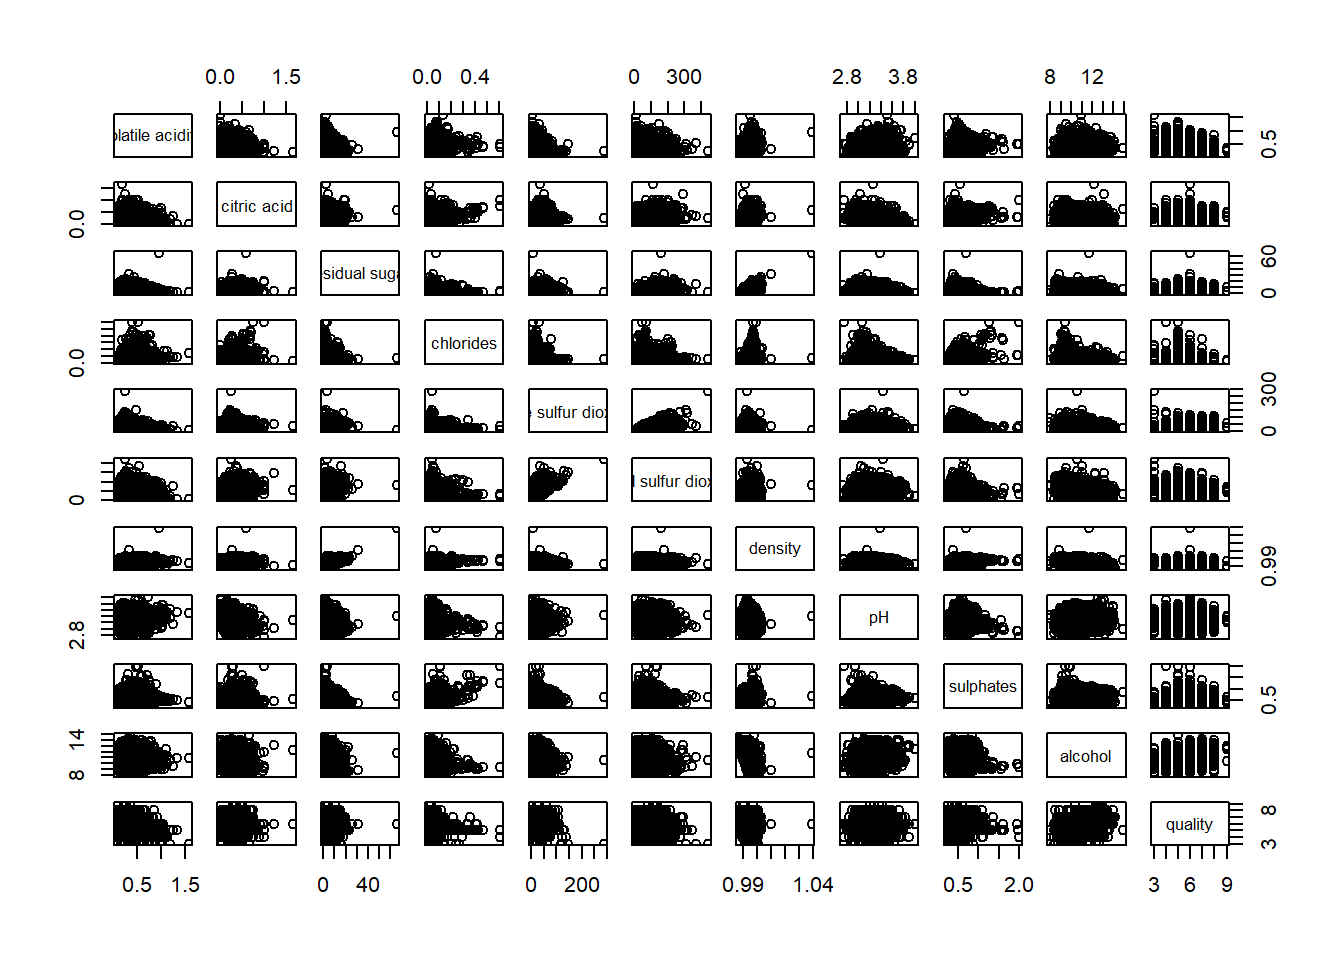
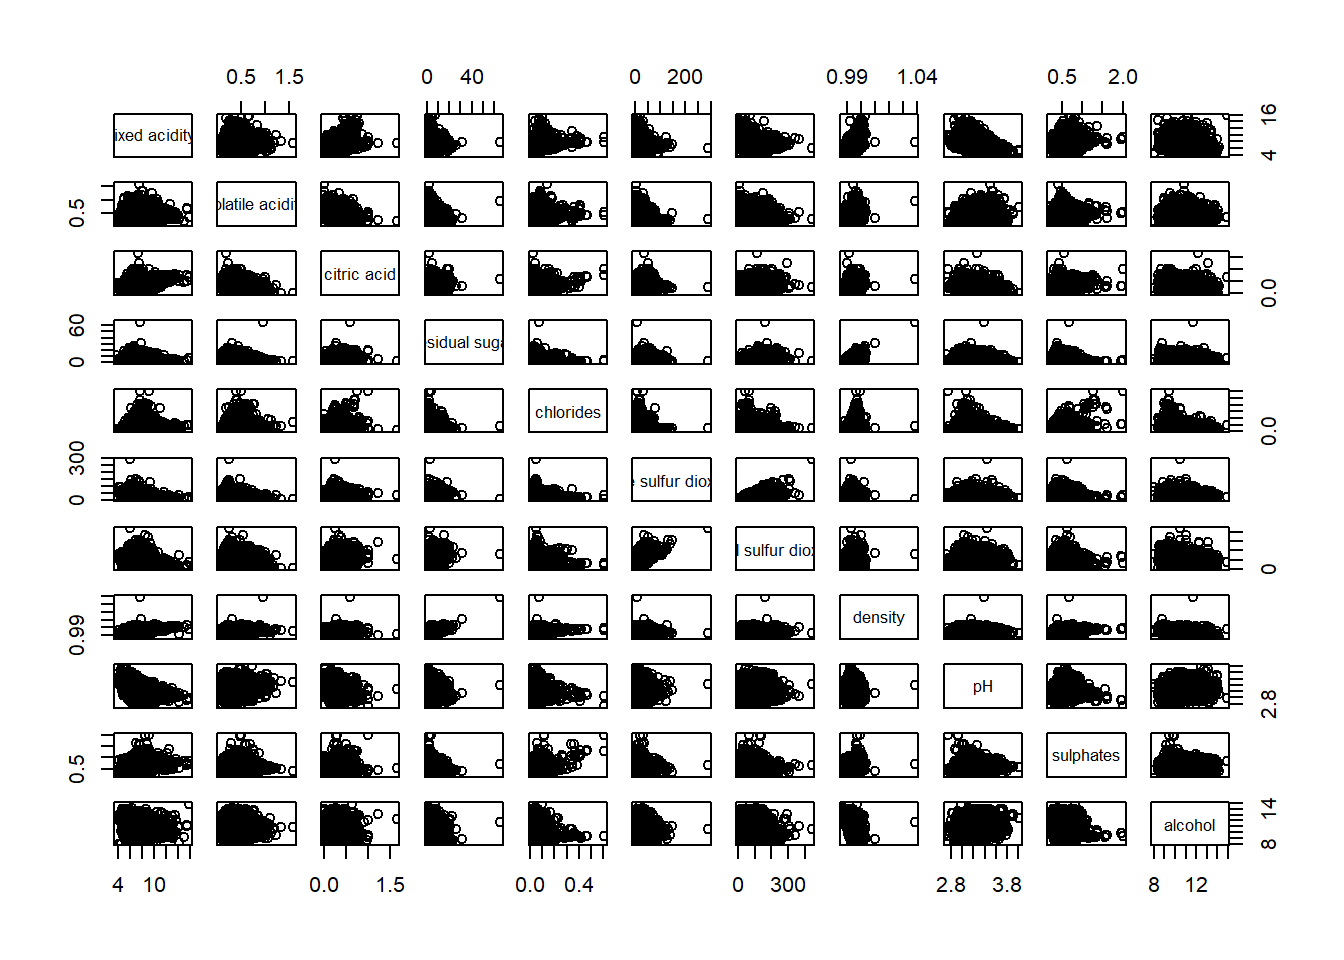
1

diff --git a/_site/in-class/in-class-5.html b/_site/in-class/in-class-5.html
@@ -254,21 +254,68 @@ code span.wa { color: #60a0b0; font-weight: bold; font-style: italic; } /* Warni
 </header>
 
 <div class="cell">
-<div class="sourceCode cell-code" id="cb1"><pre class="sourceCode r code-with-copy"><code class="sourceCode r"><span id="cb1-1"><a href="#cb1-1" aria-hidden="true" tabindex="-1"></a>pacman<span class="sc">::</span><span class="fu">p_load</span>(DT,plotly,tidyverse,patchwork,ggiraph,ggstatsplot,readxl, performance, parameters, see,ggtern,corrplot)</span></code><button title="Copy to Clipboard" class="code-copy-button"><i class="bi"></i></button></pre></div>
+<div class="sourceCode cell-code" id="cb1"><pre class="sourceCode r code-with-copy"><code class="sourceCode r"><span id="cb1-1"><a href="#cb1-1" aria-hidden="true" tabindex="-1"></a>pacman<span class="sc">::</span><span class="fu">p_load</span>(plotly,tidyverse,ggiraph,ggstatsplot,corrplot,ellipse,corrgram,ggpubr,patchwork)</span></code><button title="Copy to Clipboard" class="code-copy-button"><i class="bi"></i></button></pre></div>
 </div>
 <div class="cell">
-<div class="sourceCode cell-code" id="cb2"><pre class="sourceCode r code-with-copy"><code class="sourceCode r"><span id="cb2-1"><a href="#cb2-1" aria-hidden="true" tabindex="-1"></a>wine <span class="ot">&lt;-</span> <span class="fu">read_csv</span>(<span class="st">"wine_quality.csv"</span>)</span></code><button title="Copy to Clipboard" class="code-copy-button"><i class="bi"></i></button></pre></div>
+<div class="sourceCode cell-code" id="cb2"><pre class="sourceCode r code-with-copy"><code class="sourceCode r"><span id="cb2-1"><a href="#cb2-1" aria-hidden="true" tabindex="-1"></a><span class="fu">library</span>(ggstatsplot)</span></code><button title="Copy to Clipboard" class="code-copy-button"><i class="bi"></i></button></pre></div>
 </div>
 <div class="cell">
-<div class="sourceCode cell-code" id="cb3"><pre class="sourceCode r code-with-copy"><code class="sourceCode r"><span id="cb3-1"><a href="#cb3-1" aria-hidden="true" tabindex="-1"></a><span class="fu">pairs</span>(wine[,<span class="dv">1</span><span class="sc">:</span><span class="dv">11</span>])</span></code><button title="Copy to Clipboard" class="code-copy-button"><i class="bi"></i></button></pre></div>
-<div class="cell-output-display">
-<p><img src="in-class-5_files/figure-html/unnamed-chunk-3-1.png" class="img-fluid" width="672"></p>
-</div>
+<div class="sourceCode cell-code" id="cb3"><pre class="sourceCode r code-with-copy"><code class="sourceCode r"><span id="cb3-1"><a href="#cb3-1" aria-hidden="true" tabindex="-1"></a>wine <span class="ot">&lt;-</span> <span class="fu">read_csv</span>(<span class="st">"wine_quality.csv"</span>)</span></code><button title="Copy to Clipboard" class="code-copy-button"><i class="bi"></i></button></pre></div>
 </div>
 <div class="cell">
-<div class="sourceCode cell-code" id="cb4"><pre class="sourceCode r code-with-copy"><code class="sourceCode r"><span id="cb4-1"><a href="#cb4-1" aria-hidden="true" tabindex="-1"></a><span class="fu">pairs</span>(wine[,<span class="dv">2</span><span class="sc">:</span><span class="dv">12</span>])</span></code><button title="Copy to Clipboard" class="code-copy-button"><i class="bi"></i></button></pre></div>
+<div class="sourceCode cell-code" id="cb4"><pre class="sourceCode r code-with-copy"><code class="sourceCode r"><span id="cb4-1"><a href="#cb4-1" aria-hidden="true" tabindex="-1"></a><span class="fu">pairs</span>(wine[,<span class="dv">1</span><span class="sc">:</span><span class="dv">11</span>])</span></code><button title="Copy to Clipboard" class="code-copy-button"><i class="bi"></i></button></pre></div>
 <div class="cell-output-display">
 <p><img src="in-class-5_files/figure-html/unnamed-chunk-4-1.png" class="img-fluid" width="672"></p>
+</div>
+</div>
+<div class="cell">
+<div class="sourceCode cell-code" id="cb5"><pre class="sourceCode r code-with-copy"><code class="sourceCode r"><span id="cb5-1"><a href="#cb5-1" aria-hidden="true" tabindex="-1"></a><span class="fu">pairs</span>(wine[,<span class="dv">2</span><span class="sc">:</span><span class="dv">12</span>])</span></code><button title="Copy to Clipboard" class="code-copy-button"><i class="bi"></i></button></pre></div>
+<div class="cell-output-display">
+<p><img src="in-class-5_files/figure-html/unnamed-chunk-5-1.png" class="img-fluid" width="672"></p>
+</div>
+</div>
+<div class="cell">
+<div class="sourceCode cell-code" id="cb6"><pre class="sourceCode r code-with-copy"><code class="sourceCode r"><span id="cb6-1"><a href="#cb6-1" aria-hidden="true" tabindex="-1"></a>ggstatsplot<span class="sc">::</span><span class="fu">ggcorrmat</span>(</span>
+<span id="cb6-2"><a href="#cb6-2" aria-hidden="true" tabindex="-1"></a>  <span class="at">data =</span> wine, </span>
+<span id="cb6-3"><a href="#cb6-3" aria-hidden="true" tabindex="-1"></a>  <span class="at">cor.vars =</span> <span class="dv">1</span><span class="sc">:</span><span class="dv">11</span>)</span></code><button title="Copy to Clipboard" class="code-copy-button"><i class="bi"></i></button></pre></div>
+<div class="cell-output-display">
+<p><img src="in-class-5_files/figure-html/unnamed-chunk-6-1.png" class="img-fluid" width="960"></p>
+</div>
+</div>
+<div class="cell">
+<div class="sourceCode cell-code" id="cb7"><pre class="sourceCode r code-with-copy"><code class="sourceCode r"><span id="cb7-1"><a href="#cb7-1" aria-hidden="true" tabindex="-1"></a>ggstatsplot<span class="sc">::</span><span class="fu">ggcorrmat</span>(</span>
+<span id="cb7-2"><a href="#cb7-2" aria-hidden="true" tabindex="-1"></a>  <span class="at">data =</span> wine, </span>
+<span id="cb7-3"><a href="#cb7-3" aria-hidden="true" tabindex="-1"></a>  <span class="at">cor.vars =</span> <span class="dv">1</span><span class="sc">:</span><span class="dv">11</span>,</span>
+<span id="cb7-4"><a href="#cb7-4" aria-hidden="true" tabindex="-1"></a>  <span class="at">ggcorrplot.args =</span> <span class="fu">list</span>(<span class="at">outline.color =</span> <span class="st">"black"</span>, </span>
+<span id="cb7-5"><a href="#cb7-5" aria-hidden="true" tabindex="-1"></a>                         <span class="at">hc.order =</span> <span class="cn">TRUE</span>,</span>
+<span id="cb7-6"><a href="#cb7-6" aria-hidden="true" tabindex="-1"></a>                         <span class="at">tl.cex =</span> <span class="dv">10</span>),</span>
+<span id="cb7-7"><a href="#cb7-7" aria-hidden="true" tabindex="-1"></a>  <span class="at">title    =</span> <span class="st">"Correlogram for wine dataset"</span>,</span>
+<span id="cb7-8"><a href="#cb7-8" aria-hidden="true" tabindex="-1"></a>  <span class="at">subtitle =</span> <span class="st">"Four pairs are no significant at p &lt; 0.05"</span></span>
+<span id="cb7-9"><a href="#cb7-9" aria-hidden="true" tabindex="-1"></a>)</span></code><button title="Copy to Clipboard" class="code-copy-button"><i class="bi"></i></button></pre></div>
+<div class="cell-output-display">
+<p><img src="in-class-5_files/figure-html/unnamed-chunk-7-1.png" class="img-fluid" width="672"></p>
+</div>
+</div>
+<div class="cell">
+<div class="sourceCode cell-code" id="cb8"><pre class="sourceCode r code-with-copy"><code class="sourceCode r"><span id="cb8-1"><a href="#cb8-1" aria-hidden="true" tabindex="-1"></a><span class="fu">grouped_ggcorrmat</span>(</span>
+<span id="cb8-2"><a href="#cb8-2" aria-hidden="true" tabindex="-1"></a>  <span class="at">data =</span> wine,</span>
+<span id="cb8-3"><a href="#cb8-3" aria-hidden="true" tabindex="-1"></a>  <span class="at">cor.vars =</span> <span class="dv">1</span><span class="sc">:</span><span class="dv">11</span>,</span>
+<span id="cb8-4"><a href="#cb8-4" aria-hidden="true" tabindex="-1"></a>  <span class="at">grouping.var =</span> type,</span>
+<span id="cb8-5"><a href="#cb8-5" aria-hidden="true" tabindex="-1"></a>  <span class="at">type =</span> <span class="st">"robust"</span>,</span>
+<span id="cb8-6"><a href="#cb8-6" aria-hidden="true" tabindex="-1"></a>  <span class="at">p.adjust.method =</span> <span class="st">"holm"</span>,</span>
+<span id="cb8-7"><a href="#cb8-7" aria-hidden="true" tabindex="-1"></a>  <span class="at">plotgrid.args =</span> <span class="fu">list</span>(<span class="at">ncol =</span> <span class="dv">2</span>),</span>
+<span id="cb8-8"><a href="#cb8-8" aria-hidden="true" tabindex="-1"></a>  <span class="at">ggcorrplot.args =</span> <span class="fu">list</span>(<span class="at">outline.color =</span> <span class="st">"black"</span>, </span>
+<span id="cb8-9"><a href="#cb8-9" aria-hidden="true" tabindex="-1"></a>                         <span class="at">hc.order =</span> <span class="cn">TRUE</span>,</span>
+<span id="cb8-10"><a href="#cb8-10" aria-hidden="true" tabindex="-1"></a>                         <span class="at">tl.cex =</span> <span class="dv">10</span>),</span>
+<span id="cb8-11"><a href="#cb8-11" aria-hidden="true" tabindex="-1"></a>  <span class="at">annotation.args =</span> <span class="fu">list</span>(</span>
+<span id="cb8-12"><a href="#cb8-12" aria-hidden="true" tabindex="-1"></a>    <span class="at">tag_levels =</span> <span class="st">"a"</span>,</span>
+<span id="cb8-13"><a href="#cb8-13" aria-hidden="true" tabindex="-1"></a>    <span class="at">title =</span> <span class="st">"Correlogram for wine dataset"</span>,</span>
+<span id="cb8-14"><a href="#cb8-14" aria-hidden="true" tabindex="-1"></a>    <span class="at">subtitle =</span> <span class="st">"The measures are: alcohol, sulphates, fixed acidity, citric acid, chlorides, residual sugar, density, free sulfur dioxide and volatile acidity"</span>,</span>
+<span id="cb8-15"><a href="#cb8-15" aria-hidden="true" tabindex="-1"></a>    <span class="at">caption =</span> <span class="st">"Dataset: UCI Machine Learning Repository"</span></span>
+<span id="cb8-16"><a href="#cb8-16" aria-hidden="true" tabindex="-1"></a>  )</span>
+<span id="cb8-17"><a href="#cb8-17" aria-hidden="true" tabindex="-1"></a>)</span></code><button title="Copy to Clipboard" class="code-copy-button"><i class="bi"></i></button></pre></div>
+<div class="cell-output-display">
+<p><img src="in-class-5_files/figure-html/unnamed-chunk-8-1.png" class="img-fluid" width="1920"></p>
 </div>
 </div>
 
